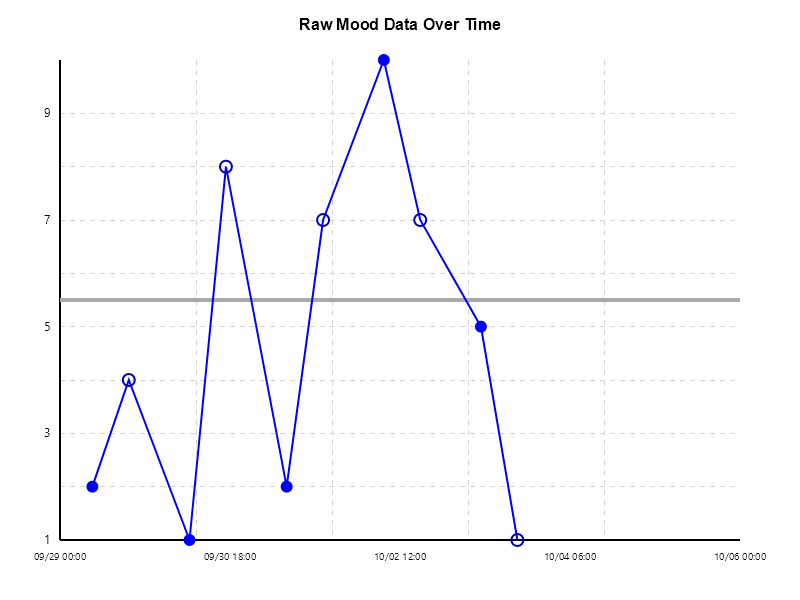
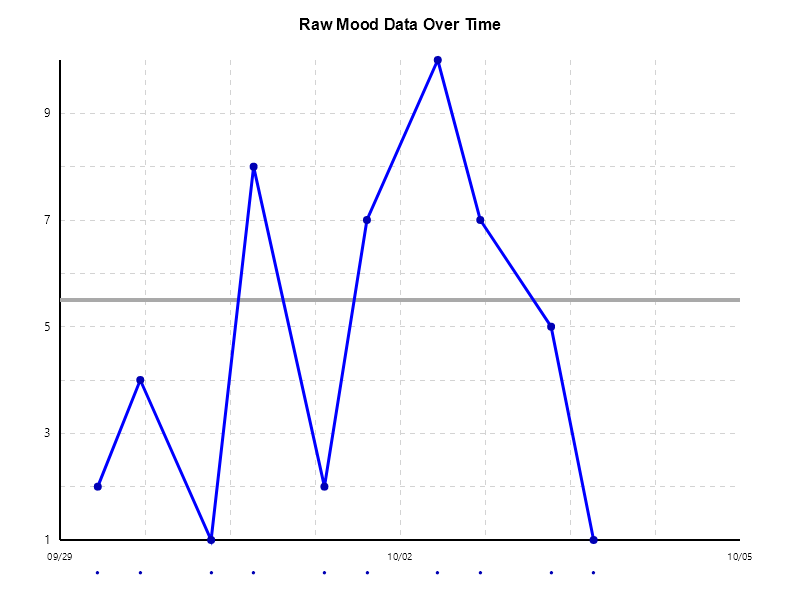
refactor LineGraphServiceApprovalTests to use SimpleLineGraphService for generating raw graphs

diff --git a/WorkMood.MauiApp.Tests/Services/LineGraphServiceApprovalTests.cs b/WorkMood.MauiApp.Tests/Services/LineGraphServiceApprovalTests.cs
@@ -319,8 +319,8 @@ public class LineGraphServiceApprovalTests
         var dateRange = new DateRangeInfo(DateRange.Last7Days, new FakeDateShim(today));
 
         // Act
-        var imageBytes = await _lineGraphService.GenerateRawDataGraphAsync(
-            MoodDataTestHelper.ConvertToRawMoodDataPoints(data),
+        var imageBytes = await _simpleLineGraphService.GenerateRawGraphAsync(
+            data,
             dateRange, 
             showDataPoints: true, 
             showAxesAndGrid: true, 
